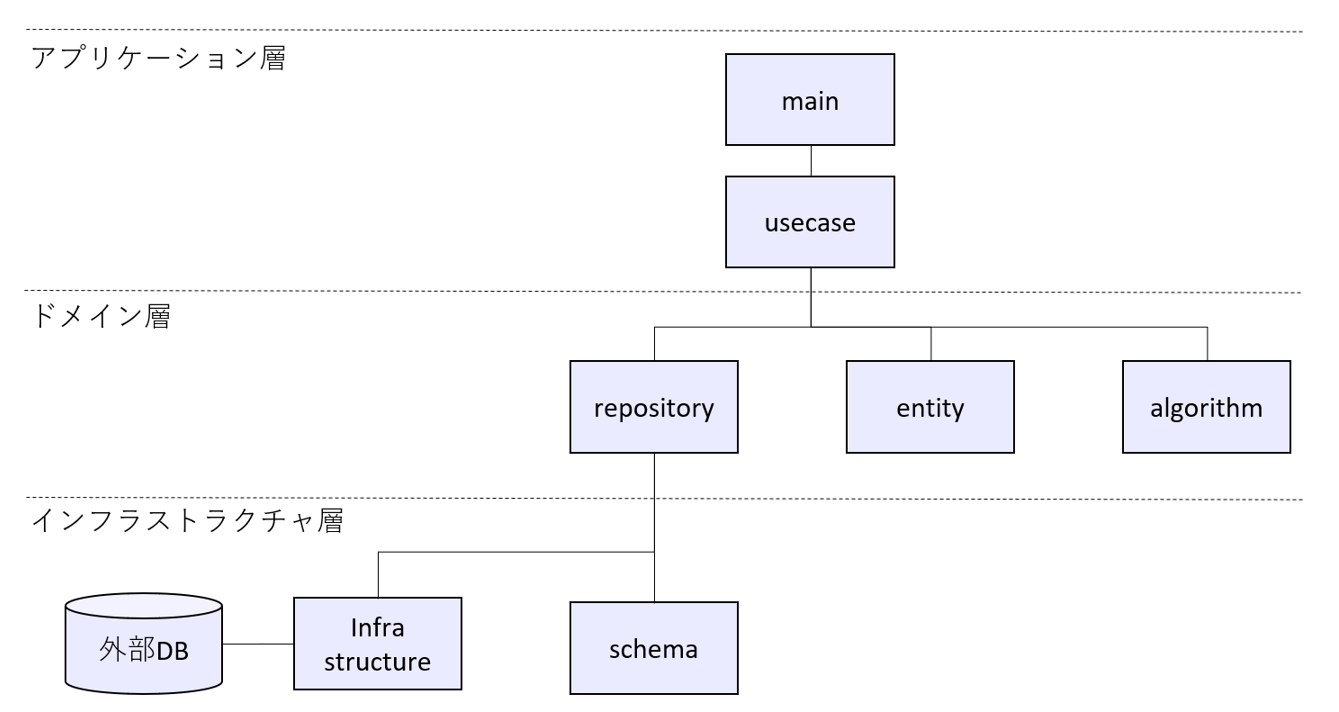
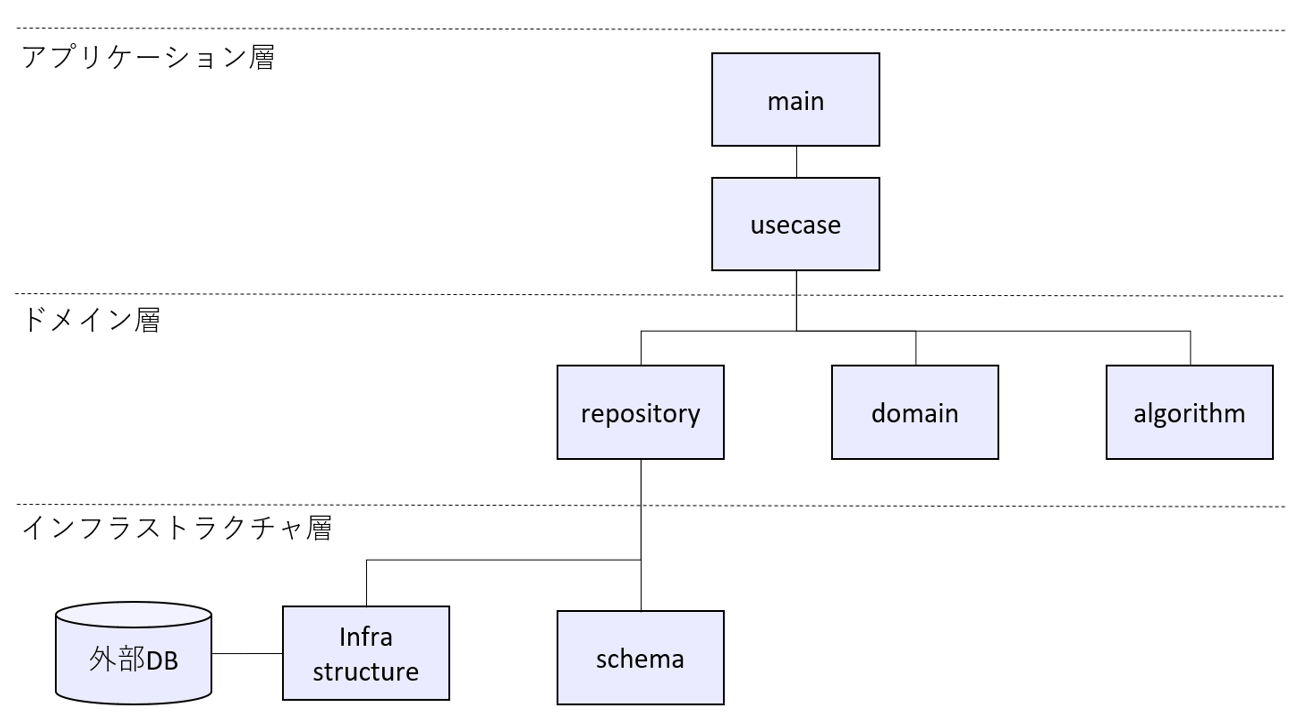
rename entity -> domain

diff --git a/machine_learning/src/main.py b/machine_learning/src/main.py
@@ -7,8 +7,8 @@ from src.algorithm.lightgbm_regressor import LightGBMRegression
 from src.algorithm.models import get_model
 from src.algorithm.preprocess import LagSalesExtractor
 from src.algorithm.preprocess import PricesExtractor
-from src.entity.prediction_data import PredictionDataset
-from src.entity.training_data import TrainingDataset
+from src.domain.prediction_data import PredictionDataset
+from src.domain.training_data import TrainingDataset
 from src.infrastructure.database import PostgreSQLClient
 from src.middleware.logger import configure_logger
 from src.repository.calendar_repository import CalendarRepository

diff --git a/machine_learning/src/usecase/preprocess_usecase.py b/machine_learning/src/usecase/preprocess_usecase.py
@@ -1,8 +1,8 @@
 import pandas as pd
 from src.algorithm.preprocess import AbstractExtractor
-from src.entity.common_data import XY
-from src.entity.preprocessed_data import PreprocessedDataset
-from src.entity.raw_data import RawDataset
+from src.domain.common_data import XY
+from src.domain.preprocessed_data import PreprocessedDataset
+from src.domain.raw_data import RawDataset
 from src.middleware.logger import configure_logger
 
 logger = configure_logger(__name__)

diff --git a/machine_learning/src/usecase/evaluation_usecase.py b/machine_learning/src/usecase/evaluation_usecase.py
@@ -4,7 +4,7 @@ import pandas as pd
 from sklearn.metrics import mean_squared_error  # type: ignore
 from sklearn.metrics import mean_absolute_error  # type: ignore
 from src.algorithm.lightgbm_regressor import AbstractModel
-from src.entity.evaluation_data import Evaluation, FeatureImportances
+from src.domain.evaluation_data import Evaluation, FeatureImportances
 from src.middleware.logger import configure_logger
 
 logger = configure_logger(__name__)

diff --git a/machine_learning/src/algorithm/preprocess.py b/machine_learning/src/algorithm/preprocess.py
@@ -1,8 +1,8 @@
 from abc import ABC, abstractmethod
 import pandas as pd
 
-from src.entity.preprocessed_data import ExtractedLagSalesSchema
-from src.entity.preprocessed_data import ExtractedPriceSchema
+from src.domain.preprocessed_data import ExtractedLagSalesSchema
+from src.domain.preprocessed_data import ExtractedPriceSchema
 from src.middleware.logger import configure_logger
 
 logger = configure_logger(__name__)

diff --git a/machine_learning/src/usecase/data_loader_usecase.py b/machine_learning/src/usecase/data_loader_usecase.py
@@ -2,7 +2,7 @@ from typing import List
 
 import numpy as np
 import pandas as pd
-from src.entity.raw_data import RawDataset, RawDataWithTargetDates
+from src.domain.raw_data import RawDataset, RawDataWithTargetDates
 from src.middleware.logger import configure_logger
 from src.repository.calendar_repository import AbstractCalendarRepository
 from src.repository.prices_repository import AbstractPricesRepository

diff --git a/machine_learning/src/usecase/prediction_usecase.py b/machine_learning/src/usecase/prediction_usecase.py
@@ -1,6 +1,6 @@
 import pandas as pd
 from src.algorithm.lightgbm_regressor import AbstractModel
-from src.entity.prediction_data import Prediction, PredictionDataset
+from src.domain.prediction_data import Prediction, PredictionDataset
 from src.middleware.logger import configure_logger
 
 logger = configure_logger(__name__)

diff --git a/machine_learning/src/usecase/training_usecase.py b/machine_learning/src/usecase/training_usecase.py
@@ -1,6 +1,6 @@
 import pandas as pd
 from src.algorithm.lightgbm_regressor import AbstractModel
-from src.entity.training_data import TrainingDataset
+from src.domain.training_data import TrainingDataset
 from src.middleware.logger import configure_logger
 
 logger = configure_logger(__name__)

diff --git a/machine_learning/src/algorithm/lightgbm_regressor.py b/machine_learning/src/algorithm/lightgbm_regressor.py
@@ -8,7 +8,7 @@ import yaml
 from lightgbm import Booster, LGBMRegressor
 import lightgbm as lgb
 
-from src.entity.evaluation_data import FeatureImportance
+from src.domain.evaluation_data import FeatureImportance
 
 LGB_REGRESSION_DEFAULT_PARAMS = {
     "boosting_type": "gbdt",

diff --git a/machine_learning/src/domain/prediction_data.py b/machine_learning/src/domain/prediction_data.py
@@ -4,7 +4,7 @@ from dataclasses import dataclass
 import pandas as pd
 from pandera import Field, SchemaModel
 from pandera.typing import Series
-from src.entity.common_data import XY
+from src.domain.common_data import XY
 
 
 @dataclass(frozen=True)

diff --git a/machine_learning/src/domain/preprocessed_data.py b/machine_learning/src/domain/preprocessed_data.py
@@ -2,7 +2,7 @@ from dataclasses import dataclass
 
 from pandera import Field, SchemaModel
 from pandera.typing import Series
-from src.entity.common_data import XY
+from src.domain.common_data import XY
 
 
 class ExtractedPriceSchema(SchemaModel):

diff --git a/machine_learning/src/domain/training_data.py b/machine_learning/src/domain/training_data.py
@@ -1,6 +1,6 @@
 from dataclasses import dataclass
 
-from src.entity.common_data import XY
+from src.domain.common_data import XY
 
 
 @dataclass(frozen=True)
